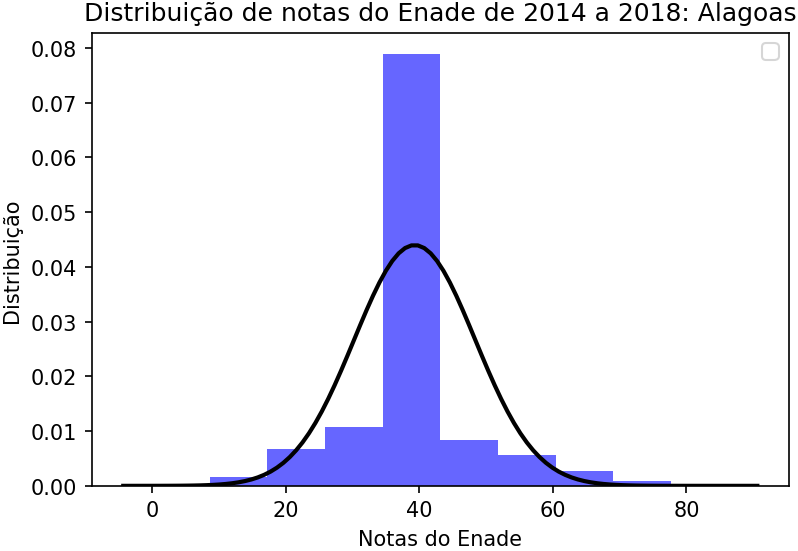
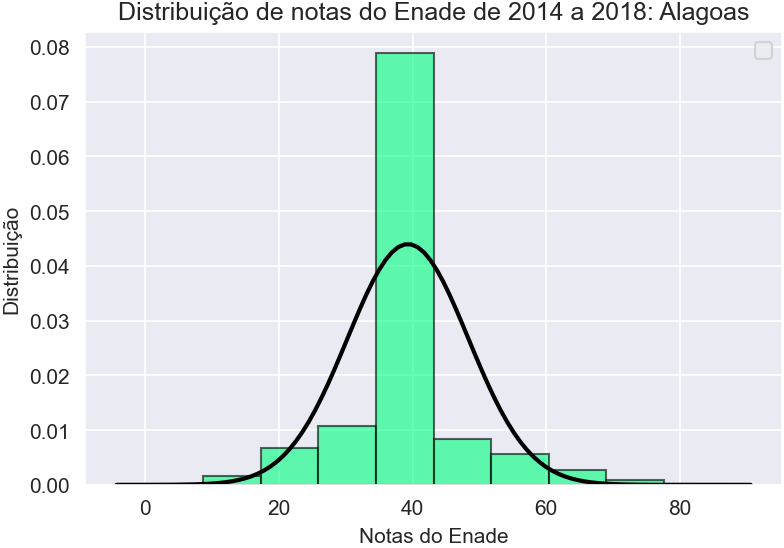
Gaussiana ok. Plotar: gráfico vs categoria.

Changed region(s): [[0.0, 0.0, 1.0, 0.9927], [0.398, 0.6825, 0.4286, 0.7445]]

diff --git a/compare_methods/analise_al.py b/compare_methods/analise_al.py
@@ -6,14 +6,17 @@ Modificação:
 
 @author: Edvonaldo (edvonaldohoracio@gmail.com)
 """
-
 import os
 import csv
 import math
 import random
+import pylab
+import matplotlib
 import numpy as np
 import pandas as pd
 import datetime as dt
+import seaborn as sns
+from scipy.stats import norm
 import matplotlib.pyplot as plt
 
 # Funções úteis
@@ -225,7 +228,6 @@ file_stats_al = "../tcc_codes/analise_stats/AL/Stats_AL.csv"
 version_file(file_stats_al, fields_stats_al, rows_stats_al)
 
 #%% Plotando gráfico de distribuição das notas em Alagoas
-import seaborn as sns
 
 #sns.displot(data=labels_al, kind="kde", kde=True)
 sns.distplot(labels_al, kde=True)
@@ -235,7 +237,50 @@ plt.ylabel('Distribuição');
 plt.legend();
 # Dica: você deve estar na pasta tcc_codes (Variable explorer)
 plt.savefig('../tcc_codes/analise_stats/AL/imagens/DIST_NOTA_AL.png', dpi=150, bbox_inches='tight', pad_inches=0.015);
+#%% Gerando distribuição de frequencia
 
+def generante_random_numbers(start, end, qtde):
+    x = []
+    for i in range(0,qtde):
+        n = np.random.uniform(start, end)
+        x.append(round(n,2))
+    return x
+
+x1 = generante_random_numbers(0, 100, 300)
+x2 = generante_random_numbers(0, 20, 150)
+X_ = x1 + x2
+X = np.array(X_)
+# Ref: https://realpython.com/python-histograms/
+sns.set_style('darkgrid')
+#sns.distplot(X, bins=50, kde_kws={'clip': (0.0, 100.0)})
+sns.distplot(X, bins=100)
+plt.xlim(0,100)
+plt.title("Gaussiana")
+plt.xlabel('Notas do Enade');
+plt.ylabel('Distribuição');
+plt.show()
+
+#%% Gaussiana com matplotlib da distribuição anterior
+print("Matplotlib version: ",matplotlib.__version__)
+mu_X, std_X = norm.fit(X)
+
+# Plot the histogram.
+plt.hist(X, bins=150, density=True, alpha=0.0, histtype='barstacked', 
+         color='springgreen', stacked=True, edgecolor='k')
+  
+# Plot the PDF.
+min_ylim, max_ylim = plt.ylim(0,0.02)
+xmin, xmax = plt.xlim(0,100)
+x_X = np.linspace(xmin, xmax, 100)
+p_X = norm.pdf(x_X, mu_X, std_X)
+  
+plt.plot(x_X, p_X, 'k', linewidth=1.5)
+plt.fill_between(x_X, p_X, color='brown')# Ref: https://moonbooks.org/Articles/How-to-fill-an-area-in-matplotlib-/
+plt.axvline(X.mean(), color='k', linestyle='dashed', linewidth=1)
+plt.text(X.mean()*1.1, max_ylim*0.9, 'Média: {:.2f}'.format(X.mean()))
+plt.title("Gaussiana")
+plt.xlabel('Notas do Enade');
+plt.ylabel('Distribuição');
 #%% Distribuição normal
 # Ref: https://www.geeksforgeeks.org/how-to-plot-normal-distribution-over-histogram-in-python/
 from scipy.stats import norm
@@ -243,7 +288,8 @@ from scipy.stats import norm
 mu_al, std_al = norm.fit(labels_al)
 
 # Plot the histogram.
-plt.hist(labels_al, density=True, alpha=0.6, color='b')
+plt.hist(labels_al, bins=10, density=True, alpha=0.6, 
+         histtype='barstacked', color='springgreen', edgecolor='k')
   
 # Plot the PDF.
 xmin, xmax = plt.xlim()
@@ -254,7 +300,7 @@ plt.plot(x_al, p_al, 'k', linewidth=2)
 plt.title("Distribuição de notas do Enade de 2014 a 2018: Alagoas")
 plt.xlabel('Notas do Enade');
 plt.ylabel('Distribuição');
-plt.legend();
+#plt.legend();
 plt.savefig('../tcc_codes/analise_stats/AL/imagens/DIST_GAUSS_AL.png', dpi=150, bbox_inches='tight', pad_inches=0.015);
 #%%
 # Ref: https://dev.to/thalesbruno/subplotting-with-matplotlib-and-seaborn-5ei8

diff --git a/compare_methods/library_utils.py b/compare_methods/library_utils.py
@@ -1,0 +1,21 @@
+# -*- coding: utf-8 -*-
+"""
+Criação: Abril/2021
+    
+Modificação: 
+
+@author: Edvonaldo (edvonaldohoracio@gmail.com)
+"""
+
+import os
+import csv
+import math
+import random
+import matplotlib
+import numpy as np
+import pandas as pd
+import datetime as dt
+import seaborn as sns
+from scipy.stats import norm
+import matplotlib.pyplot as plt
+
